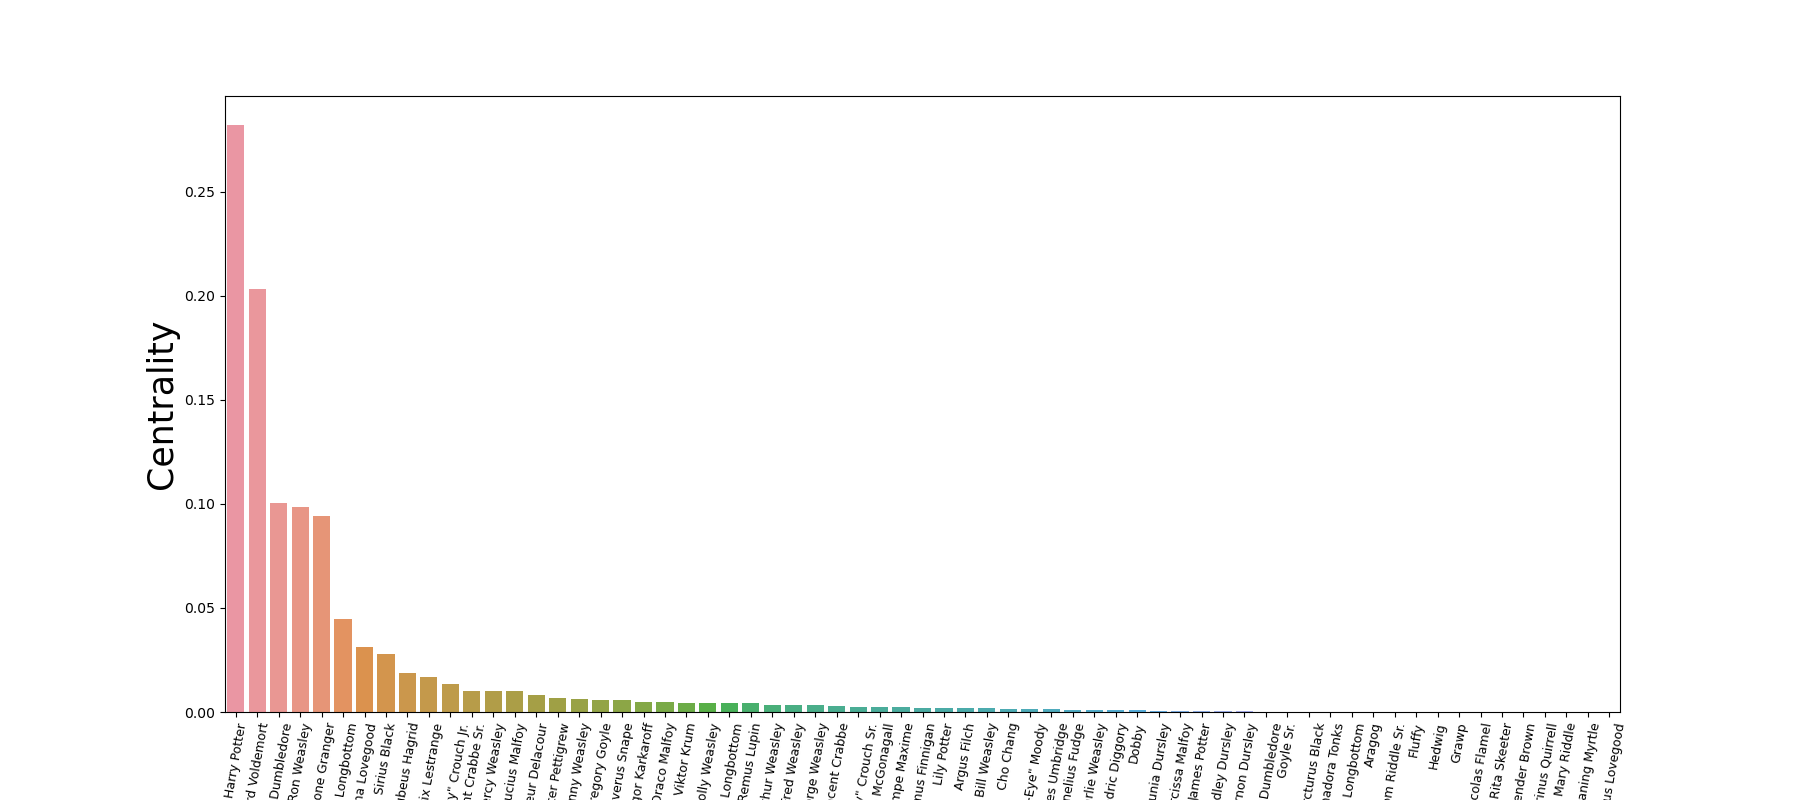
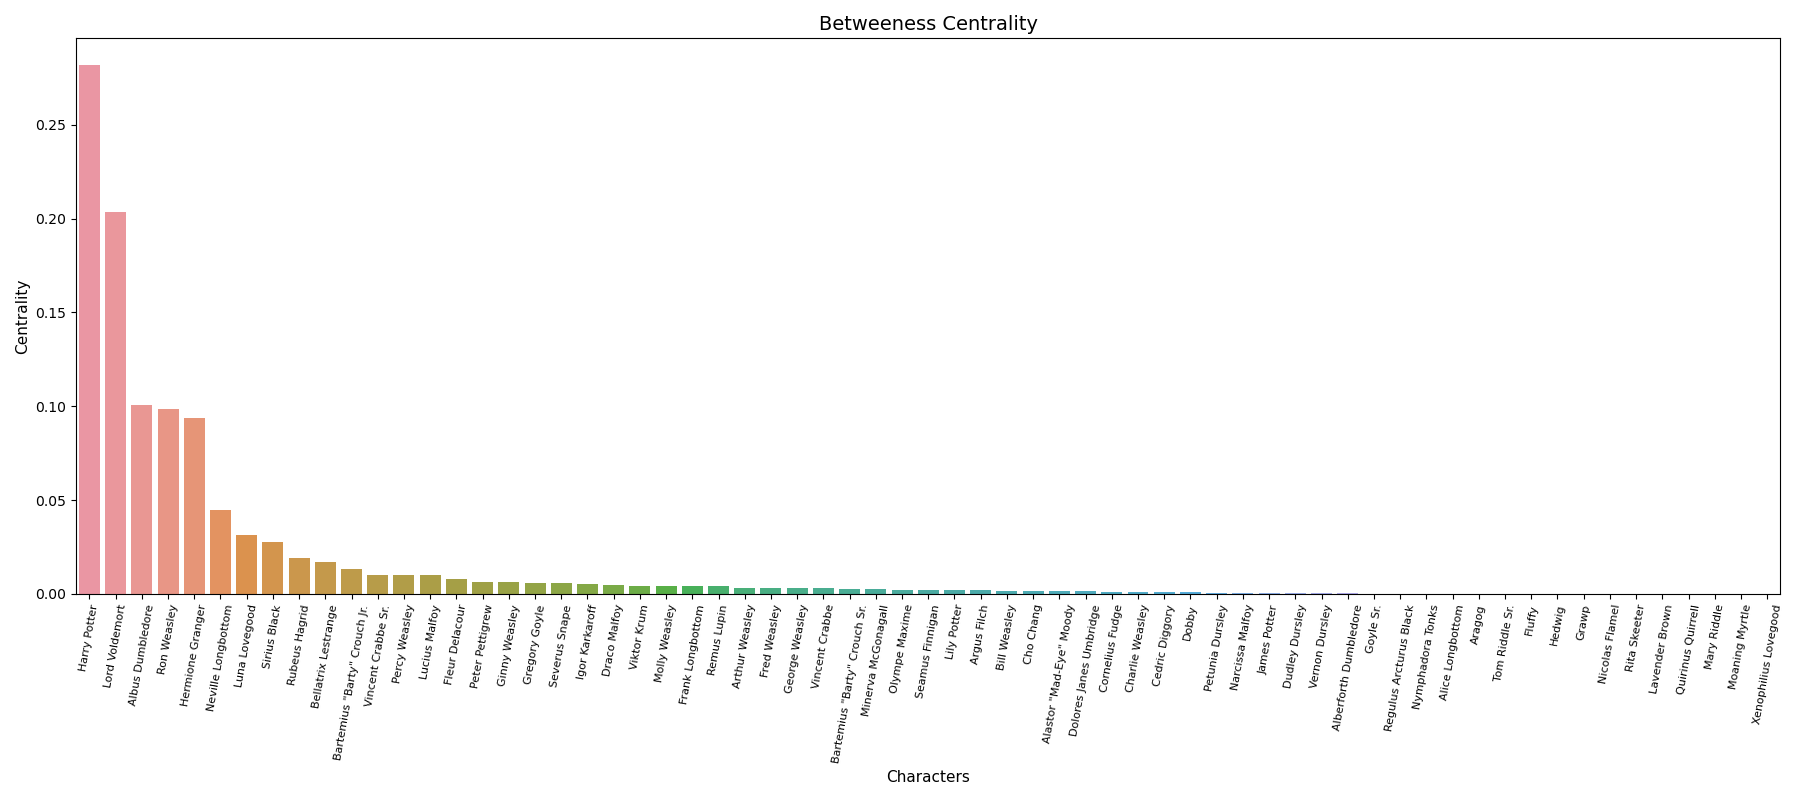
clique

Changed region(s): [[0.0, 0.0625, 0.9956, 1.0], [0.4667, 0.0, 0.56, 0.0625]]

diff --git a/NetworkX.py b/NetworkX.py
@@ -62,15 +62,15 @@ def plot_centrality_by_key(centrality_type, graph):
     centrality_df["keys"] = centrality_df["keys"].replace(mapping, regex=True)
     plot_order = centrality_df.groupby('keys')['values'].sum().sort_values(ascending=False).index.values
 
-    plt.figure(figsize=(10, 6))
+    plt.figure(figsize=(18, 8))
     sns.barplot(x=centrality_df["keys"].tolist(), y=centrality_df["values"].tolist(), order=plot_order)
-    plt.xticks(rotation=80, fontsize=8)
-    plt.xlabel("Characters", fontsize=12)
-    plt.ylabel("Centrality", fontsize=12)
-    plt.title(centrality_type + " Centrality", fontsize=15)
-    #plt.tight_layout()
+    plt.xticks(rotation=80, fontsize=9)
+    plt.xlabel("Characters", fontsize=13)
+    plt.ylabel("Centrality", fontsize=13)
+    plt.title(centrality_type + " Centrality", fontsize=16)
+    plt.tight_layout()
     plt.savefig("grafici/" + centrality_type + ".png")
-    #plt.show()
+    plt.show()
 
 def plot_centrality_distribution(centrality_type, graph):
     centrality = nx.betweenness_centrality(graph)
@@ -146,24 +146,24 @@ graph.add_edges_from(edges_list)
 
 description(graph)
 
-draw_network(nx.spring_layout(graph, k=16/math.sqrt(graph.order())), "spring", edges["type"])
-'''draw_network(nx.kamada_kawai_layout(graph), "kamada", edges["type"])
+'''draw_network(nx.spring_layout(graph, k=16/math.sqrt(graph.order())), "spring", edges["type"])
+draw_network(nx.kamada_kawai_layout(graph), "kamada", edges["type"])
 draw_network(nx.random_layout(graph), "random", edges["type"])
 draw_network(nx.shell_layout(graph), "shell", edges["type"])
 draw_network(nx.spiral_layout(graph), "spiral", edges["type"])'''
 
 
-'''plot_centrality_by_key("Betweeness", graph)
+plot_centrality_by_key("Betweenness", graph)
 plot_centrality_by_key("Closeness", graph)
 plot_centrality_by_key("Degree", graph)
 plot_centrality_by_key("Eigenvector", graph)
 
-plot_centrality_distribution("Betweeness", graph)
+'''plot_centrality_distribution("Betweenness", graph)
 plot_centrality_distribution("Closeness", graph)
 plot_centrality_distribution("Degree", graph)
 plot_centrality_distribution("Eigenvector", graph)'''
 
-'''draw(graph, nx.spring_layout(graph), 'Betweeness')
+'''draw(graph, nx.spring_layout(graph), 'Betweenness')
 draw(graph, nx.spring_layout(graph), 'Closeness')
 draw(graph, nx.spring_layout(graph), 'Degree')
 draw(graph, nx.spring_layout(graph), 'Eigenvector')'''

diff --git a/CliqueKcore.py b/CliqueKcore.py
@@ -22,15 +22,31 @@ graph.add_edges_from(edges_list)
 
 cliques = nx.find_cliques(graph)
 print(list(cliques))
-print(max(len(c) for c in nx.find_cliques(graph)))
-
+maximal_cliques_len = max(len(c) for c in nx.find_cliques(graph))
 print({n: sum(1 for c in nx.find_cliques(graph) if n in c) for n in graph})
 
+all_cliques = nx.enumerate_all_cliques(graph)
+print("Cliques:" + str(len(list(all_cliques))))
+
+max_clique = []
+max_cliques = nx.find_cliques(graph)
+number_max_cliques = sum(1 for c in max_cliques)
+print("Maximal cliques: " + str(number_max_cliques))
 for c in nx.find_cliques(graph):
-    if len(c)==5:
+    if len(c) == 11:
         print(c)
+        max_clique.append(c)
 
+print(max_clique)
+clique_df = pd.DataFrame(max_clique,
+                         columns=["node1", "node2", "node3", "node4", "node5", "node6", "node7", "node8", "node9",
+                                  "node10", "node11"])
+clique_df = clique_df.replace(mapping, regex=True)
+print("Le clique massimali sono:")
+for i in range(0, len(clique_df)):
+    print(clique_df.loc[i, :])
 
+plt.figure(figsize=(20, 20))
 ego_graph_hp = nx.ego_graph(graph, 39, radius=1, center=True, undirected=True, distance=None)
 ego_graph_hp = nx.relabel_nodes(ego_graph_hp, mapping)
 
@@ -44,12 +60,15 @@ for node in ego_graph_hp:
         color_map.append('red')
     else:
         color_map.append('lightblue')
+
 # Draw ego as large and red
-options = {"node_size": 80, "node_color": color_map}
+options = {"node_size": 400, "node_color": color_map}
 nx.draw_networkx_nodes(ego_graph_hp, pos, **options)
-nx.draw_networkx_edges(ego_graph_hp, pos, width=0.5, edge_color='silver')
-nx.draw_networkx_labels(ego_graph_hp, nx.spring_layout(ego_graph_hp, seed=1), font_size=10,
-                            font_family='sans-serif', font_weight='bold')
+nx.draw_networkx_edges(ego_graph_hp, pos, width=0.5, edge_color='#E8E8E8')
+nx.draw_networkx_labels(ego_graph_hp, nx.spring_layout(ego_graph_hp, seed=1), font_size=15,
+                        font_family='sans-serif', font_weight='bold')
 plt.box(False)
-plt.savefig("grafici/ego_network")
+plt.savefig("grafici/ego_network", bbox_inches="tight")
 plt.show()
+
+
